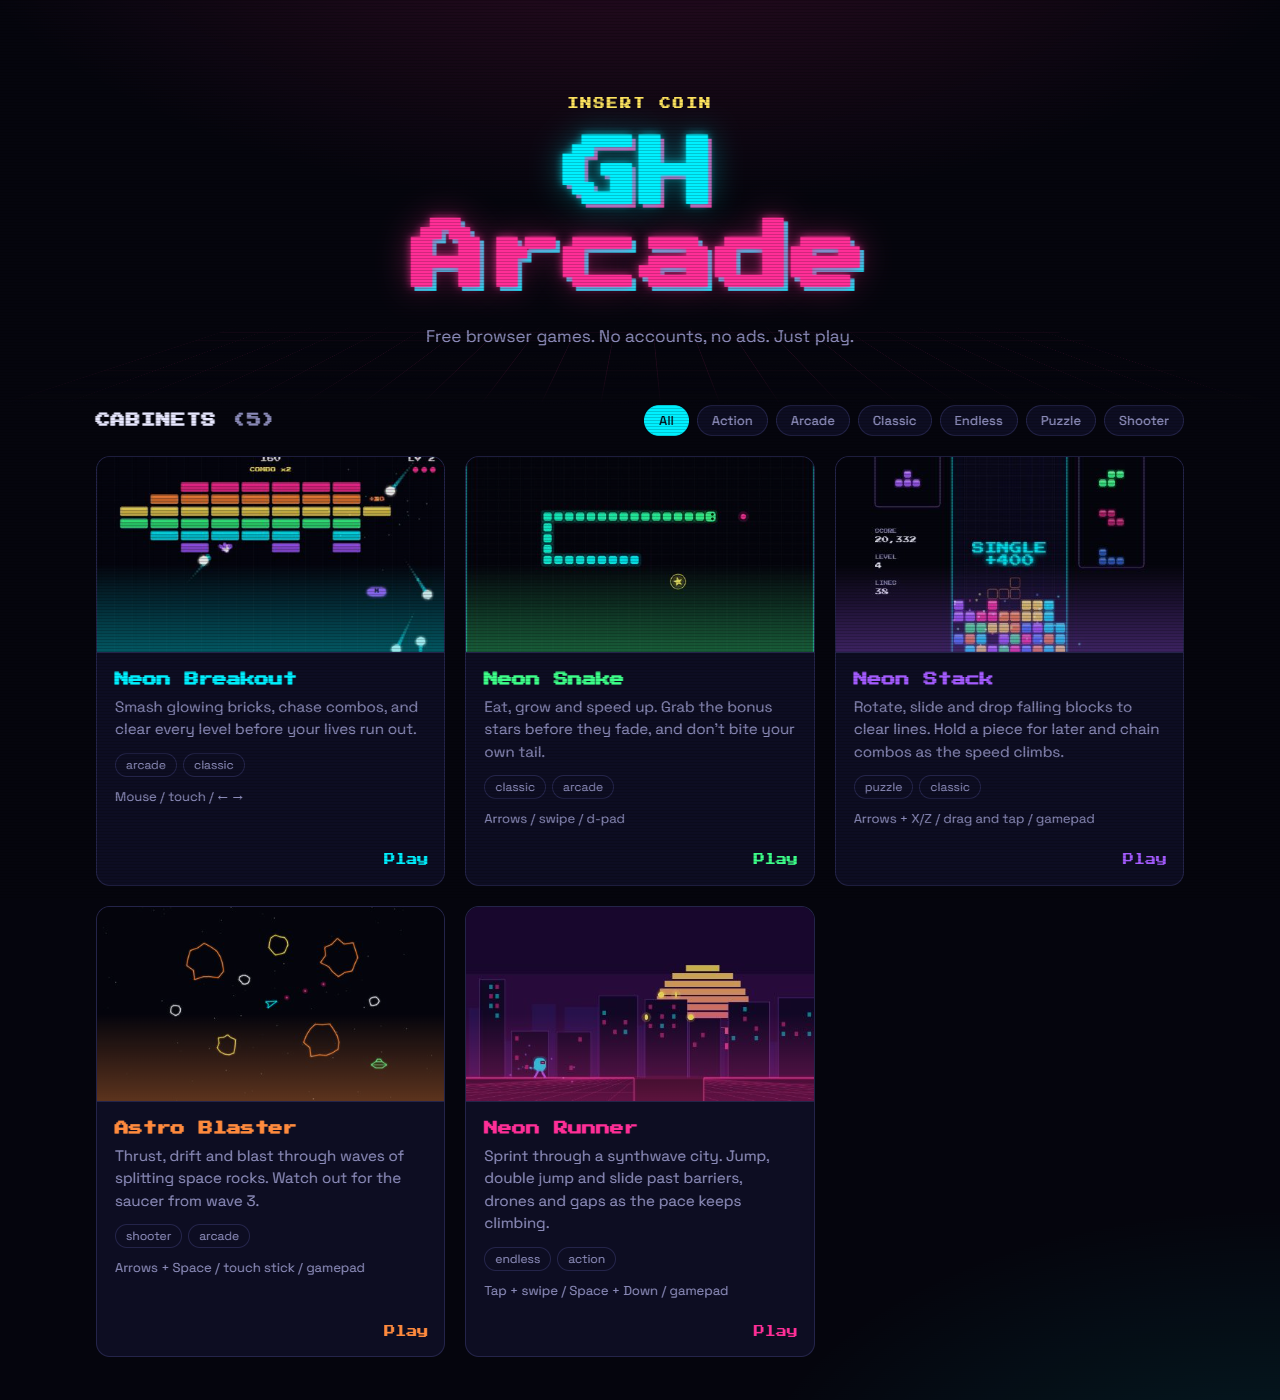
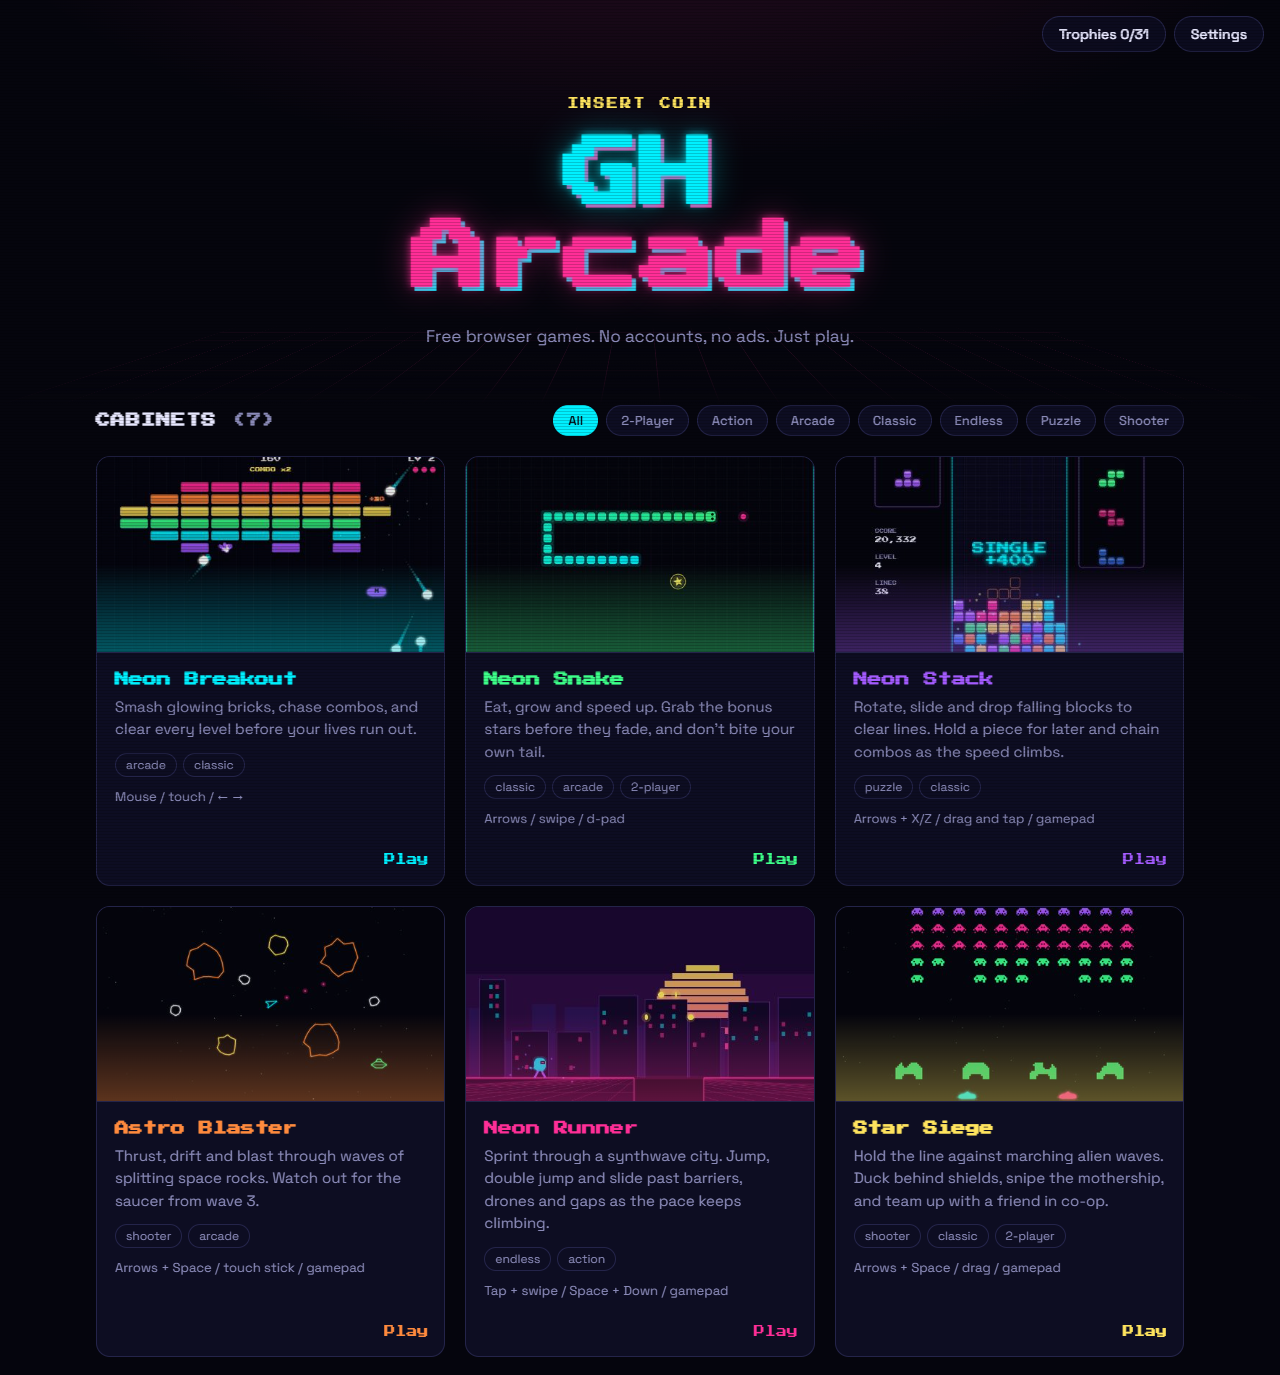
Update README for seven games, two-player, trophies and settings
- Star Siege and Neon Hop join the gameplay GIF grid; Snake mentions
  its versus mode
- Controls and scoring tables cover all seven games, including the
  two-player keys
- Features add two-player, trophies and stats, and settings and
  accessibility; the toolkit table documents achievements and settings
- New hub screenshot with the Trophies and Settings buttons
- Roadmap: everything shipped is ticked off; online leaderboards stay
  in "Up next" with new ideas

diff --git a/README.md b/README.md
@@ -10,7 +10,7 @@
 [![Play now](https://img.shields.io/badge/PLAY%20NOW-tmhsdigital.github.io%2FGH--Arcade-ff2e97?style=for-the-badge&labelColor=05050d)](https://tmhsdigital.github.io/GH-Arcade/)
 
 [![Deploy](https://img.shields.io/github/actions/workflow/status/TMHSDigital/GH-Arcade/deploy.yml?branch=main&style=flat-square&label=deploy&labelColor=05050d)](https://github.com/TMHSDigital/GH-Arcade/actions/workflows/deploy.yml)
-[![Games](https://img.shields.io/badge/games-5-00f0ff?style=flat-square&labelColor=05050d)](#games)
+[![Games](https://img.shields.io/badge/games-7-00f0ff?style=flat-square&labelColor=05050d)](#games)
 [![PWA](https://img.shields.io/badge/PWA-offline%20ready-3dff8a?style=flat-square&labelColor=05050d)](#features)
 [![Phaser](https://img.shields.io/badge/Phaser-3.90-a45bff?style=flat-square&labelColor=05050d)](https://phaser.io)
 [![TypeScript](https://img.shields.io/badge/TypeScript-5-3178c6?style=flat-square&logo=typescript&logoColor=white&labelColor=05050d)](https://www.typescriptlang.org)
@@ -18,7 +18,7 @@
 [![License: MIT](https://img.shields.io/badge/license-MIT-ff8a3d?style=flat-square&labelColor=05050d)](LICENSE)
 
 **A growing collection of free, open-source arcade games that run in your browser.**<br />
-No accounts. No ads. Keyboard, touch or gamepad. Install it and play offline.
+No accounts. No ads. Keyboard, touch or gamepad, solo or with a friend. Install it and play offline.
 
 [Games](#games) ·
 [Features](#features) ·
@@ -50,7 +50,7 @@ The classic brick-breaker, rebuilt with a synthwave glow. Five hand-built levels
     <td width="50%" valign="top">
       <a href="https://tmhsdigital.github.io/GH-Arcade/games/snake/"><img src=".github/assets/snake.gif" alt="Neon Snake gameplay: a glowing snake chasing food across a grid" width="100%" /></a>
       <h3><a href="https://tmhsdigital.github.io/GH-Arcade/games/snake/">Neon Snake</a></h3>
-      <p>Eat, grow and speed up. Grab the timed bonus stars before they fade. Smooth gliding movement and a turn buffer, so quick double-turns always register.</p>
+      <p>Eat, grow and speed up, and grab the timed bonus stars before they fade. Or go head to head in <b>two-player versus</b>: first to win three rounds.</p>
     </td>
     <td width="50%" valign="top">
       <a href="https://tmhsdigital.github.io/GH-Arcade/games/stack/"><img src=".github/assets/stack.gif" alt="Neon Stack gameplay: falling blocks locking into place and clearing lines" width="100%" /></a>
@@ -70,6 +70,18 @@ The classic brick-breaker, rebuilt with a synthwave glow. Five hand-built levels
       <p>Sprint through a synthwave city. Jump, double jump, slide and dive past barriers, drones and pits while the pace keeps climbing.</p>
     </td>
   </tr>
+  <tr>
+    <td width="50%" valign="top">
+      <a href="https://tmhsdigital.github.io/GH-Arcade/games/siege/"><img src=".github/assets/siege.gif" alt="Star Siege gameplay: two cannons firing up at a marching alien formation" width="100%" /></a>
+      <h3><a href="https://tmhsdigital.github.io/GH-Arcade/games/siege/">Star Siege</a></h3>
+      <p>Hold the line against marching alien waves behind crumbling shields, and snipe the mothership for bonus points. Play solo or in <b>two-player co-op</b>.</p>
+    </td>
+    <td width="50%" valign="top">
+      <a href="https://tmhsdigital.github.io/GH-Arcade/games/hop/"><img src=".github/assets/hop.gif" alt="Neon Hop gameplay: a hopper crossing traffic and riding logs to a dock" width="100%" /></a>
+      <h3><a href="https://tmhsdigital.github.io/GH-Arcade/games/hop/">Neon Hop</a></h3>
+      <p>Dodge four lanes of traffic, then ride drifting logs and diving turtles across the river to fill all five docks before the timer runs out.</p>
+    </td>
+  </tr>
 </table>
 
 <details>
@@ -77,15 +89,17 @@ The classic brick-breaker, rebuilt with a synthwave glow. Five hand-built levels
 
 <br />
 
-Every game also supports <kbd>P</kbd> / <kbd>Esc</kbd> / <kbd>Start</kbd> to pause, <kbd>M</kbd> / <kbd>Back</kbd> to mute, and pauses by itself when you switch tabs.
+Every game also supports <kbd>P</kbd> / <kbd>Esc</kbd> / <kbd>Start</kbd> to pause, <kbd>M</kbd> / <kbd>Back</kbd> to mute, and pauses by itself when you switch tabs. The common keys can be changed in **Settings** on the hub.
 
 | Game | Keyboard | Gamepad | Touch |
 | --- | --- | --- | --- |
 | **Breakout** | <kbd>←</kbd> <kbd>→</kbd> move, <kbd>Space</kbd> launch (or use the mouse) | Stick or d-pad move, <kbd>A</kbd> launch | Drag to move, tap to launch |
-| **Snake** | Arrows or <kbd>W</kbd> <kbd>A</kbd> <kbd>S</kbd> <kbd>D</kbd> steer | D-pad or stick steer | Swipe to steer |
+| **Snake** | Arrows or <kbd>W</kbd> <kbd>A</kbd> <kbd>S</kbd> <kbd>D</kbd> steer. Versus: P1 <kbd>W</kbd> <kbd>A</kbd> <kbd>S</kbd> <kbd>D</kbd>, P2 arrows | D-pad or stick steer (pad 1 and pad 2 in versus) | Swipe to steer (each player on their own half in versus) |
 | **Stack** | <kbd>←</kbd> <kbd>→</kbd> move, <kbd>↓</kbd> soft drop, <kbd>↑</kbd> / <kbd>X</kbd> rotate, <kbd>Z</kbd> rotate back, <kbd>Space</kbd> hard drop, <kbd>C</kbd> / <kbd>Shift</kbd> hold | D-pad move, <kbd>A</kbd> / <kbd>B</kbd> rotate, d-pad up hard drop, <kbd>Y</kbd> hold | Drag to move and soft drop, tap to rotate, flick up to hard drop, HOLD button |
 | **Astro Blaster** | <kbd>←</kbd> <kbd>→</kbd> turn, <kbd>↑</kbd> thrust, <kbd>Space</kbd> / <kbd>Z</kbd> fire, <kbd>Shift</kbd> / <kbd>X</kbd> warp | Stick turn and thrust, <kbd>A</kbd> fire, <kbd>B</kbd> warp | On-screen stick, FIRE and WARP buttons |
 | **Runner** | <kbd>Space</kbd> / <kbd>↑</kbd> jump (again in the air to double jump), <kbd>↓</kbd> slide or dive | <kbd>A</kbd> jump, <kbd>B</kbd> or stick down slide | Tap to jump, swipe down to slide or dive |
+| **Star Siege** | <kbd>←</kbd> <kbd>→</kbd> move, <kbd>Space</kbd> fire. Co-op: P1 <kbd>A</kbd> <kbd>D</kbd> + <kbd>Space</kbd>, P2 arrows + <kbd>Enter</kbd> | Stick or d-pad move, <kbd>A</kbd> fire (pad 1 and pad 2 in co-op) | Drag to move, hold a finger down to fire |
+| **Neon Hop** | Arrows or <kbd>W</kbd> <kbd>A</kbd> <kbd>S</kbd> <kbd>D</kbd> hop | D-pad or stick hop, <kbd>A</kbd> hops forward | Swipe to hop, tap to hop forward |
 
 </details>
 
@@ -101,6 +115,8 @@ Every game also supports <kbd>P</kbd> / <kbd>Esc</kbd> / <kbd>Start</kbd> to pau
 | **Stack** | 1, 2, 3 or 4 lines score 100, 300, 500 or 800 × level. Back-to-back quads score ×1.5, combos add `50 × combo × level`, and drops add 1 point per row (2 for hard drops). Level up every 10 lines. |
 | **Astro Blaster** | Large rocks 20, medium 50, small 100, saucer 500. Extra life every 10,000 points. |
 | **Runner** | 1 point per metre plus 25 per coin. |
+| **Star Siege** | Aliens are worth 10, 20 or 30 by row, the mothership 50 to 300, and clearing a wave adds `100 × wave`. |
+| **Neon Hop** | 10 for each new row reached, 50 per dock plus 10 for each second left, 200 for the bonus orb, and 1,000 for filling all five docks. |
 
 **Breakout power-ups:** green **W** widens the paddle for 12 seconds, purple **M** splits the ball into three, yellow **S** slows the ball to 70% for 8 seconds, and the rare pink **+** is an extra life.
 
@@ -111,7 +127,7 @@ Every game also supports <kbd>P</kbd> / <kbd>Esc</kbd> / <kbd>Start</kbd> to pau
 ## Features
 
 <p align="center">
-  <img src=".github/assets/hub.png" alt="The GH Arcade hub with five game cabinets and tag filters" width="100%" />
+  <img src=".github/assets/hub.png" alt="The GH Arcade hub with game cabinets, tag filters, and Trophies and Settings buttons" width="100%" />
   <br />
   <sub>The hub: every game gets a cabinet card, filterable by tag, with your best score on it once you've played.</sub>
 </p>
@@ -121,7 +137,9 @@ Every game also supports <kbd>P</kbd> / <kbd>Esc</kbd> / <kbd>Start</kbd> to pau
 | **Plays anywhere** | A static site on GitHub Pages. Loads straight in the browser on desktop, tablet or phone. |
 | **Installable, works offline** | Install GH Arcade as an app from the hub. After one visit, every game plays with no connection. |
 | **Keyboard, touch or gamepad** | Every game supports all three. Plug in a controller and it just works, including pause on <kbd>Start</kbd>. |
-| **High scores** | Best scores are saved on your device and shown on the hub. No sign-up. |
+| **Two-player** | Neon Snake has a versus mode and Star Siege has co-op, on one keyboard or two gamepads. |
+| **Trophies and stats** | 31 trophies across the arcade, with plays and best scores per game in the Trophies panel. Saved on your device, no sign-up. |
+| **Settings and accessibility** | Volume, reduced motion (no shake or flashes), a colorblind-friendly palette, and rebindable keys. |
 | **Zero-asset audio** | Sound effects are synthesized live with the Web Audio API, so there are no audio files to download. |
 | **Fast loads** | Each game is its own page and bundle. Phaser is split into one shared file that your browser caches across games. |
 | **One command per game** | `npm run new-game` scaffolds a working game and adds it to the hub. No config to edit. |
@@ -221,6 +239,8 @@ startArcadeGame({ scenes: [MenuScene, GameScene, ArcadeGameOverScene] });
 | [`phaser-config.ts`](shared/phaser-config.ts) | `startArcadeGame()`: fit-to-screen Phaser setup with gamepads enabled, once the pixel font has loaded. |
 | [`storage.ts`](shared/storage.ts) | `getHighScore()` and `submitHighScore()`, backed by `localStorage` that never throws. |
 | [`sfx.ts`](shared/sfx.ts) | `tone()` and `noise()`: retro sound effects synthesized with Web Audio. |
+| [`achievements.ts`](shared/achievements.ts) | Trophies and stats: `unlock()` when something happens, `addCounter()` for running totals. Unlocks pop up as a [toast](shared/toast.ts). |
+| [`settings.ts`](shared/settings.ts) | Player settings (volume, reduced motion, palette, key bindings) that every game reads on start. |
 | [`pwa.ts`](shared/pwa.ts) | Registers the service worker that makes every page work offline. |
 
 > [!NOTE]
@@ -243,7 +263,7 @@ Every push to `main` publishes the site automatically:
 ```
 GH-Arcade/
 ├── index.html              # Arcade hub page
-├── src/hub/                # Hub script and styles (cards, filters, install button)
+├── src/hub/                # Hub script and styles (cards, filters, install, settings and trophies panels)
 ├── games/
 │   ├── registry.json       # The list of games shown on the hub
 │   ├── _template/          # Starter game copied by `npm run new-game`
@@ -251,7 +271,9 @@ GH-Arcade/
 │   ├── snake/              # Neon Snake
 │   ├── stack/              # Neon Stack (rules live in logic.ts, separate from rendering)
 │   ├── astro/              # Astro Blaster
-│   └── runner/             # Neon Runner (obstacle patterns in patterns.ts)
+│   ├── runner/             # Neon Runner (obstacle patterns in patterns.ts)
+│   ├── siege/              # Star Siege (pixel art in sprites.ts)
+│   └── hop/                # Neon Hop (lane layout in config.ts)
 ├── shared/                 # Toolkit shared by all games (controls, pause, touch, scenes, ui, ...)
 ├── public/                 # Favicon, app icons and hub thumbnails, copied as-is
 ├── scripts/new-game.mjs    # Game scaffolder
@@ -284,20 +306,23 @@ Each game folder has the same shape: `index.html`, `main.ts` (boots Phaser), `co
 **Shipped**
 
 - [x] Arcade hub with tag filters, thumbnails and saved high scores
-- [x] Neon Breakout, Neon Snake, Neon Stack, Astro Blaster and Neon Runner
+- [x] Seven games: Neon Breakout, Neon Snake, Neon Stack, Astro Blaster, Neon Runner, Star Siege and Neon Hop
 - [x] Gamepad support in every game
 - [x] Installable PWA with offline play
+- [x] Settings screen: volume, colorblind-friendly palette and reduced motion
+- [x] Rebindable controls
+- [x] Trophies and per-game stats
+- [x] Two-player modes: Snake versus and Star Siege co-op
 - [x] One-command game scaffolding with a shared toolkit
 - [x] Automatic GitHub Pages deploys
 
 **Up next**
 
-- [ ] Settings screen: volume, colorblind-friendly palette and reduced motion
-- [ ] Rebindable controls
-- [ ] Achievements and per-game stats
 - [ ] Online leaderboards
-- [ ] Two-player modes on one keyboard or two gamepads
-- [ ] More cabinets: an invader-wave shooter and a road-crossing game
+- [ ] Daily challenge with a shared seed
+- [ ] Breakout level editor
+- [ ] More two-player modes
+- [ ] More cabinets: a maze chase and a pinball table
 
 Have an idea? [Open an issue](https://github.com/TMHSDigital/GH-Arcade/issues/new).
 
